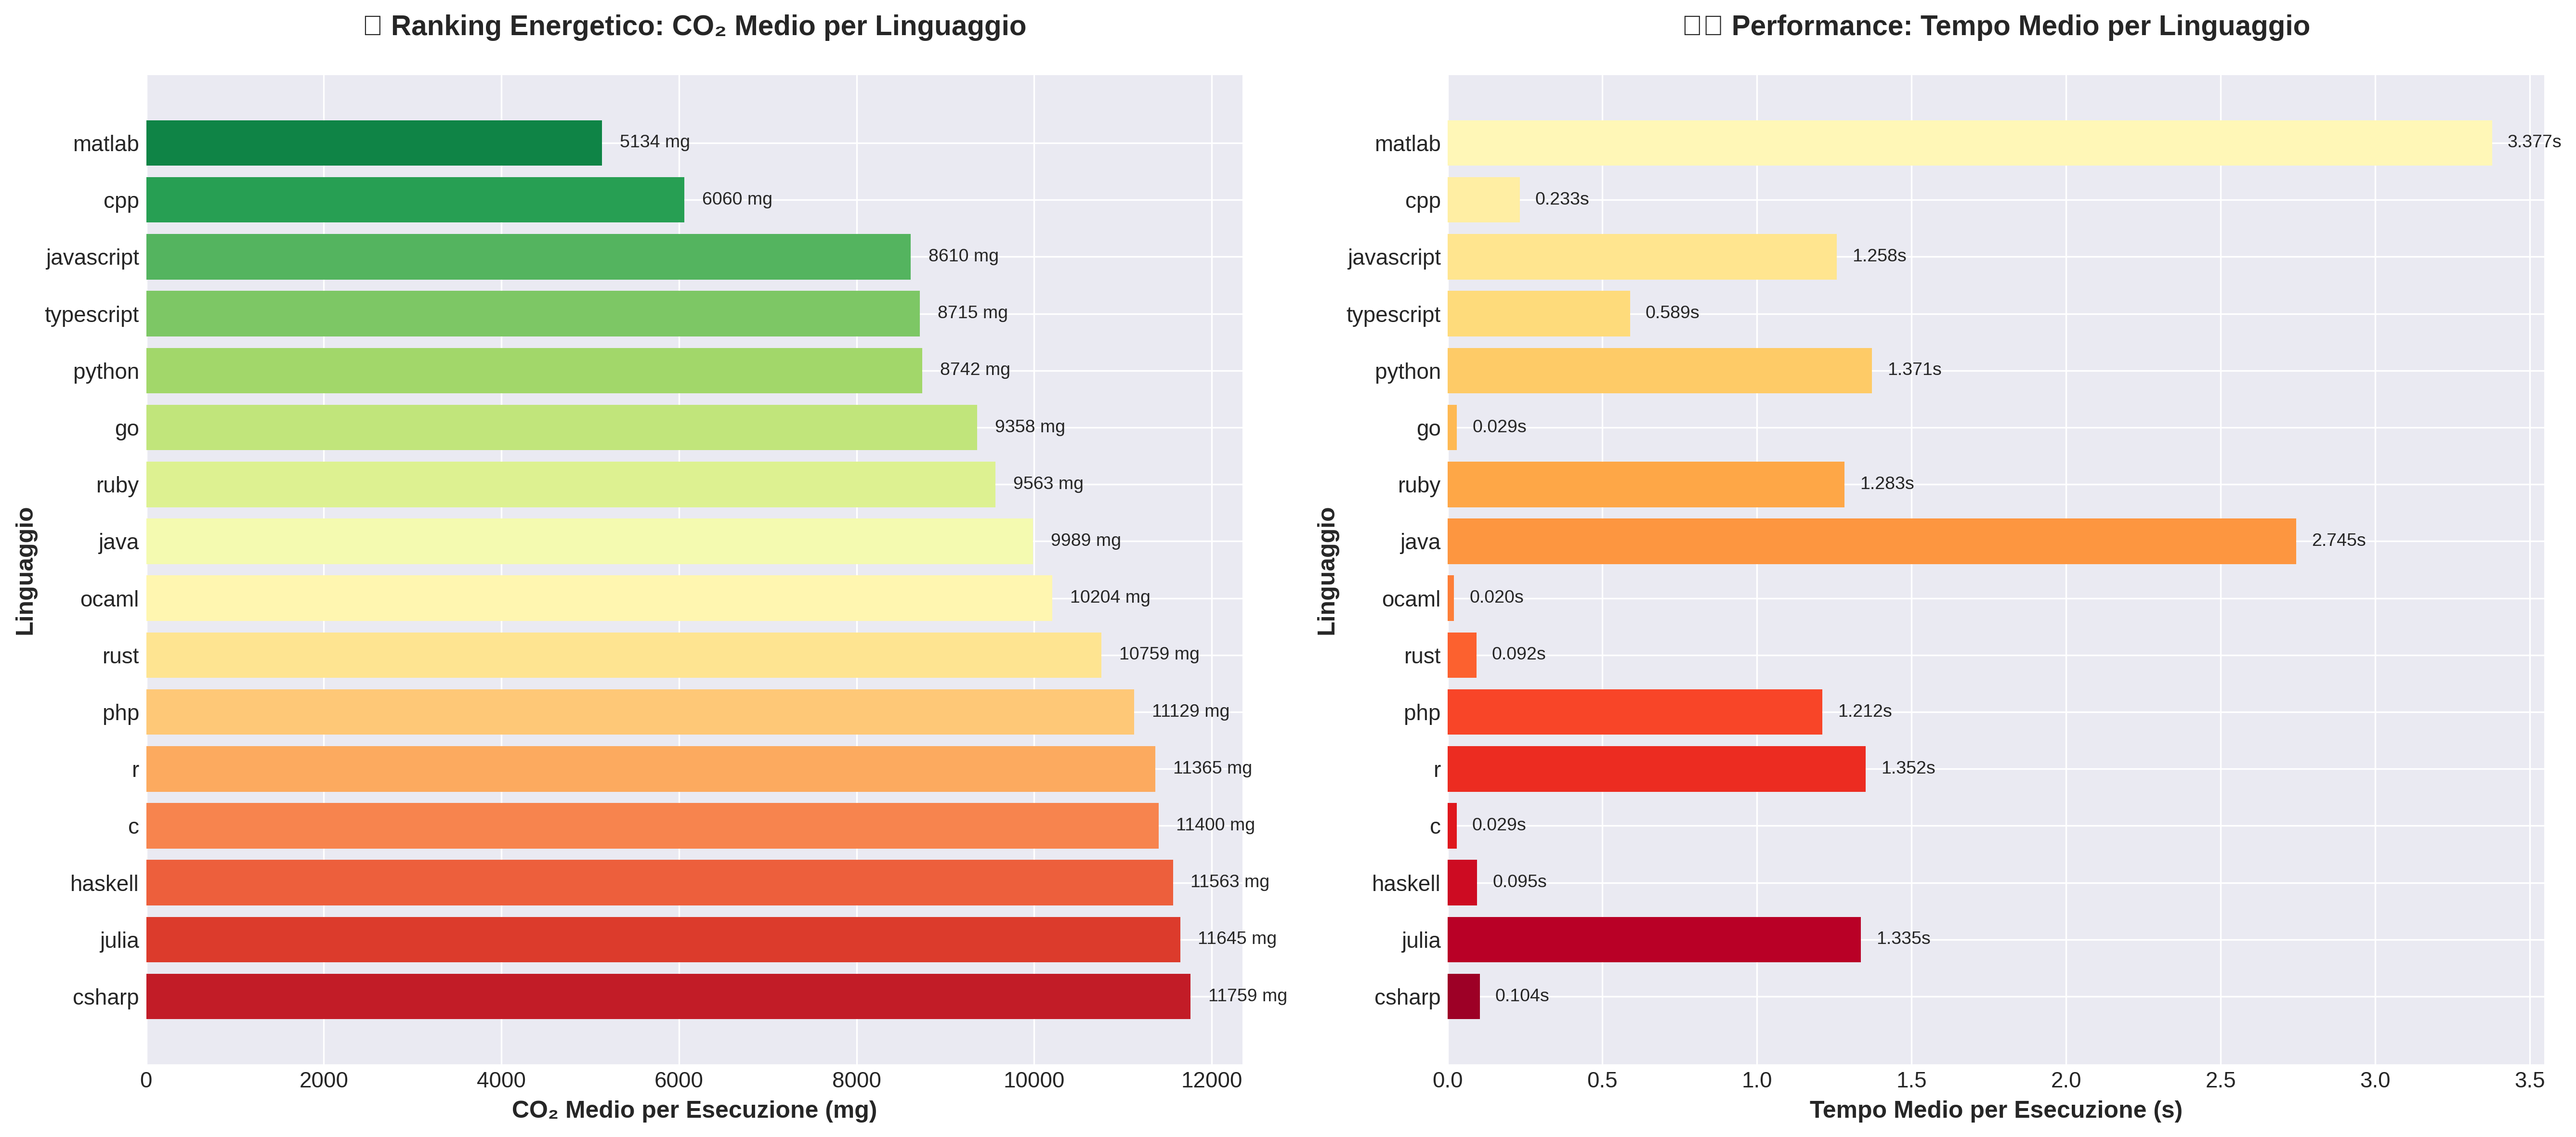
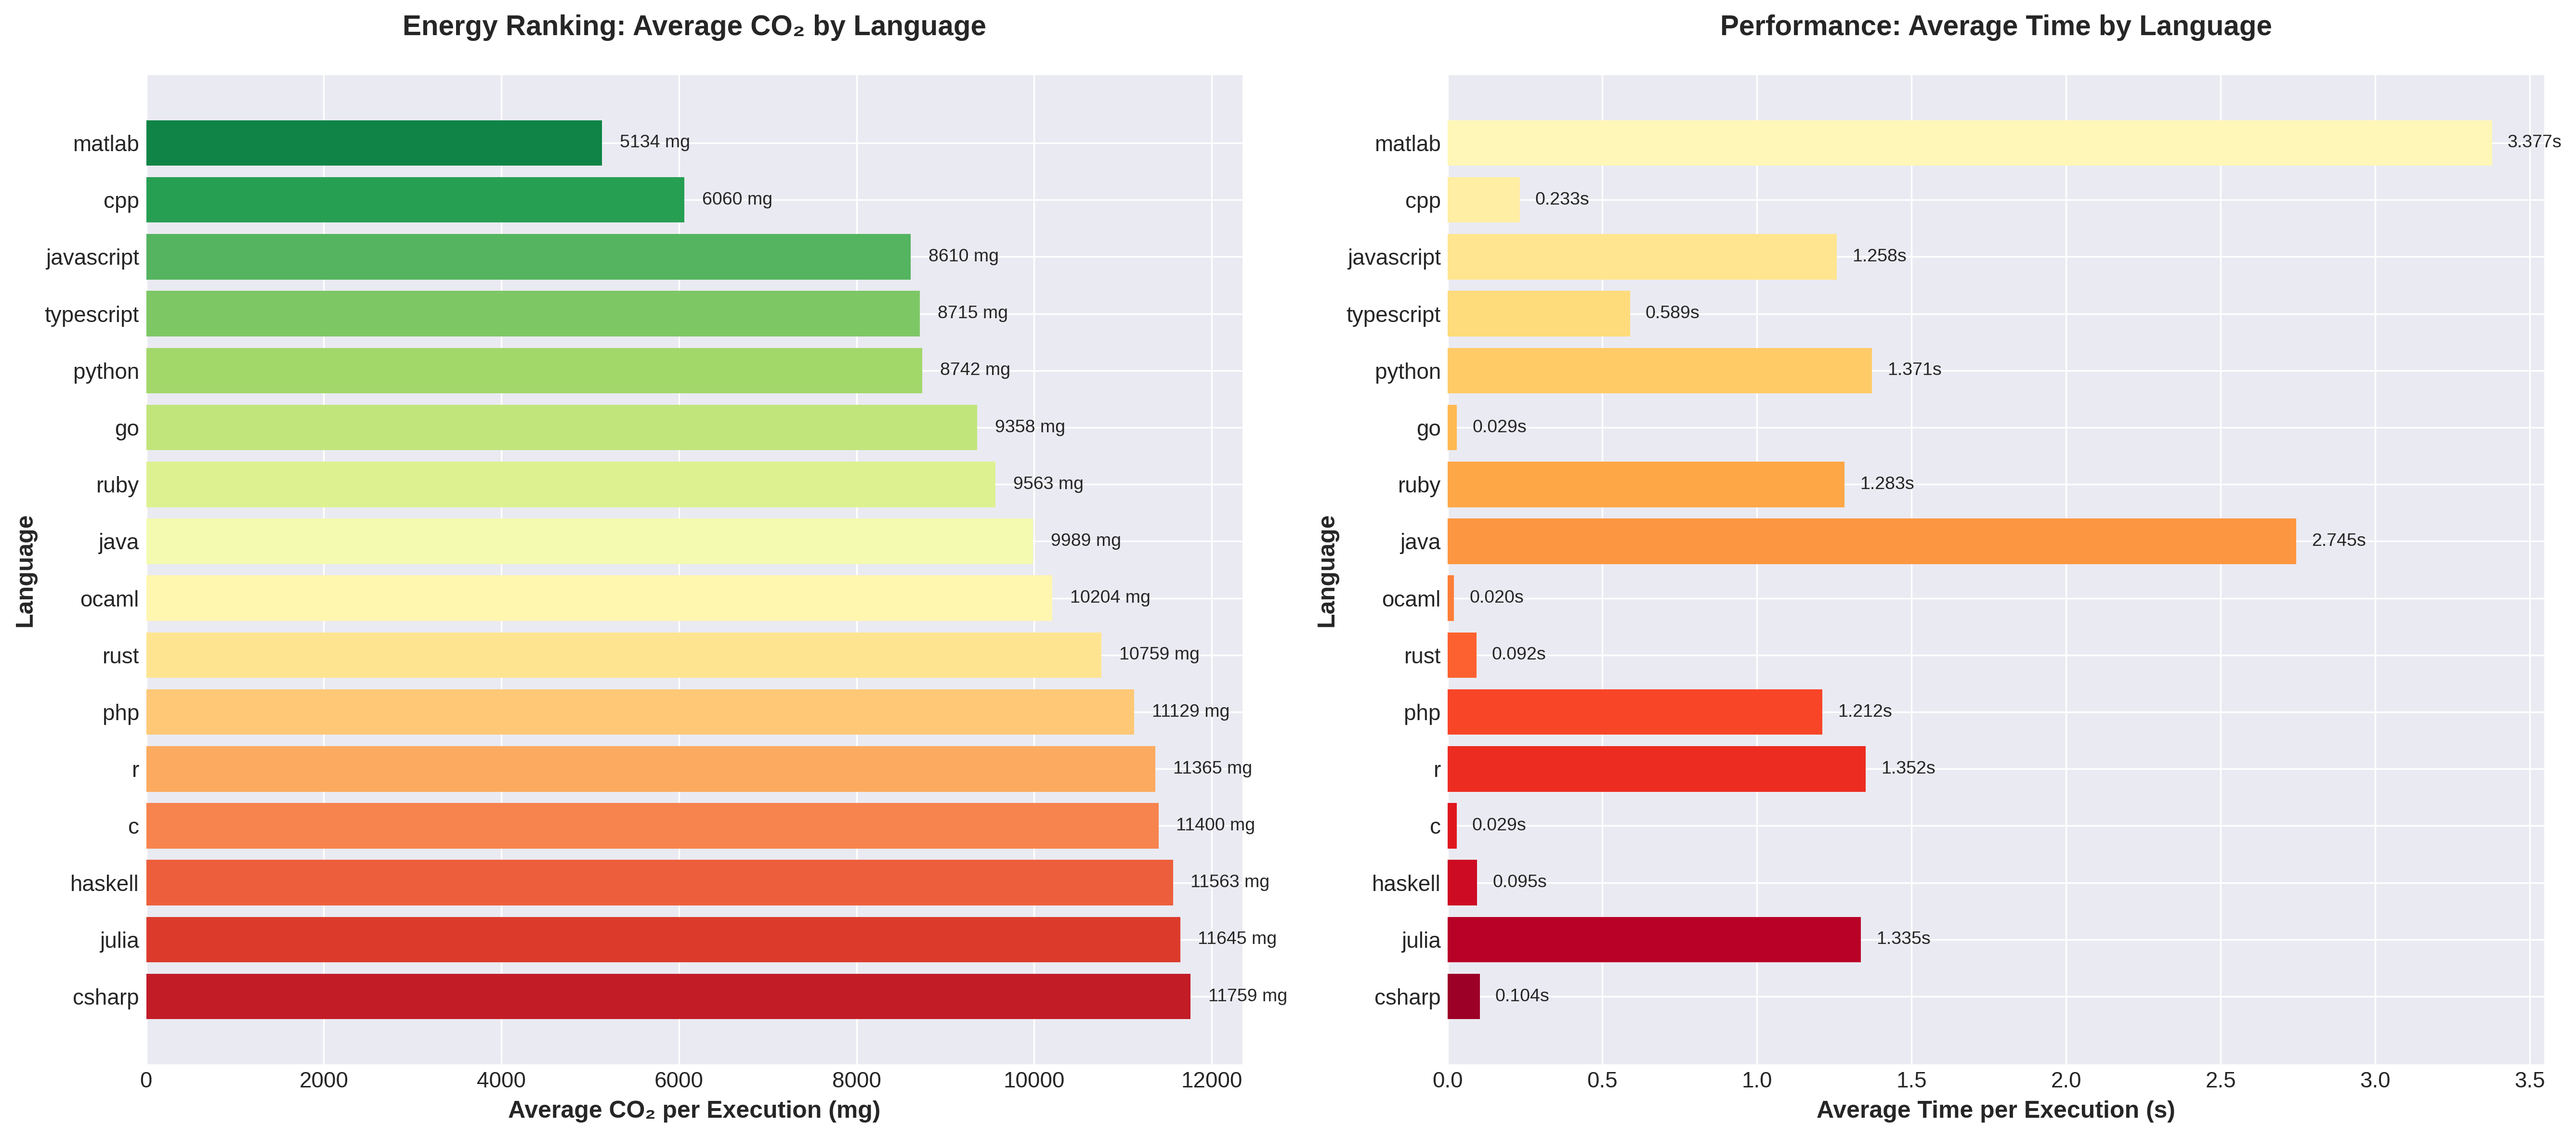
translate graphs

diff --git a/scripts/visualize_results.py b/scripts/visualize_results.py
@@ -73,7 +73,7 @@ class CLAPVisualizer:
         bars1 = ax1.barh(df['language'], df['avg_co2_per_run_mg'], color=colors)
         ax1.set_xlabel('Average CO₂ per Execution (mg)', fontsize=12, fontweight='bold')
         ax1.set_ylabel('Language', fontsize=12, fontweight='bold')
-        ax1.set_title('🌍 Energy Ranking: Average CO₂ by Language', 
+        ax1.set_title('Energy Ranking: Average CO₂ by Language', 
                      fontsize=14, fontweight='bold', pad=20)
         ax1.invert_yaxis()
         
@@ -87,7 +87,7 @@ class CLAPVisualizer:
         bars2 = ax2.barh(df['language'], df['avg_time_per_run_s'], color=colors2)
         ax2.set_xlabel('Average Time per Execution (s)', fontsize=12, fontweight='bold')
         ax2.set_ylabel('Language', fontsize=12, fontweight='bold')
-        ax2.set_title('⏱ Performance: Average Time by Language', 
+        ax2.set_title('Performance: Average Time by Language', 
                      fontsize=14, fontweight='bold', pad=20)
         ax2.invert_yaxis()
         
@@ -133,8 +133,8 @@ class CLAPVisualizer:
                        bbox=dict(boxstyle='round,pad=0.3', 
                                facecolor='yellow', alpha=0.3))
         
-        ax.set_xlabel('⏱ Average Time per Run (seconds)', fontsize=13, fontweight='bold')
-        ax.set_ylabel('🌍 Average CO₂ per Run (mg)', fontsize=13, fontweight='bold')
+        ax.set_xlabel('Average Time per Run (seconds)', fontsize=13, fontweight='bold')
+        ax.set_ylabel('Average CO₂ per Run (mg)', fontsize=13, fontweight='bold')
         ax.set_title('CO₂ vs Execution Time by Language\n(Bubble size = number of runs)', 
                     fontsize=15, fontweight='bold', pad=20)
         ax.grid(True, alpha=0.3)
@@ -178,7 +178,7 @@ class CLAPVisualizer:
         sns.heatmap(pivot, annot=True, fmt='.0f', cmap='YlOrRd', 
                    linewidths=0.5, ax=ax, cbar_kws={'label': 'Average CO₂ (mg)'})
         
-        ax.set_title('📊 CO₂ Comparison by Task and Language (Top 10 Tasks)', 
+        ax.set_title('CO₂ Comparison by Task and Language (Top 10 Tasks)', 
                     fontsize=15, fontweight='bold', pad=20)
         ax.set_xlabel('Language', fontsize=12, fontweight='bold')
         ax.set_ylabel('Task', fontsize=12, fontweight='bold')
@@ -209,7 +209,7 @@ class CLAPVisualizer:
         
         ax.set_xlabel('Success Rate (%)', fontsize=12, fontweight='bold')
         ax.set_ylabel('Language', fontsize=12, fontweight='bold')
-        ax.set_title('✅ Success Rate by Language', fontsize=14, fontweight='bold', pad=20)
+        ax.set_title('Success Rate by Language', fontsize=14, fontweight='bold', pad=20)
         ax.set_xlim(0, 105)
         
         # Add percentages
@@ -253,7 +253,7 @@ class CLAPVisualizer:
         
         ax.set_xlabel('Language', fontsize=12, fontweight='bold')
         ax.set_ylabel('CO₂ (mg)', fontsize=12, fontweight='bold')
-        ax.set_title('📦 CO₂ Distribution by Language (Boxplot)', 
+        ax.set_title('CO₂ Distribution by Language (Boxplot)', 
                     fontsize=14, fontweight='bold', pad=20)
         ax.grid(axis='y', alpha=0.3)
         plt.xticks(rotation=45, ha='right')
@@ -269,25 +269,25 @@ class CLAPVisualizer:
     
     def generate_all_plots(self):
         """Generate all available charts"""
-        print("🚀 Generating CLAP charts...\n")
+        print("Generating CLAP charts...\n")
         
-        print("1⃣ Language Energy Ranking...")
+        print("1 - Language Energy Ranking...")
         self.plot_language_energy_ranking()
         
-        print("\n2⃣ CO2 vs Time Scatter...")
+        print("\n2 - CO2 vs Time Scatter...")
         self.plot_co2_vs_time_scatter()
-        
-        print("\n3⃣ Top Tasks Comparison...")
+
+        print("\n3 - Top Tasks Comparison...")
         self.plot_top_tasks_comparison()
-        
-        print("\n4⃣ Success Rate Comparison...")
+
+        print("\n4 - Success Rate Comparison...")
         self.plot_success_rate_comparison()
-        
-        print("\n5⃣ CO2 Distribution Boxplot...")
+
+        print("\n5 - CO2 Distribution Boxplot...")
         self.plot_co2_distribution_boxplot()
         
         print(f"\n✅ COMPLETE! All charts saved in: {self.output_dir}")
-        print(f"📁 Directory: {self.output_dir.absolute()}")
+        print(f"Directory: {self.output_dir.absolute()}")
 
 
 def main():
